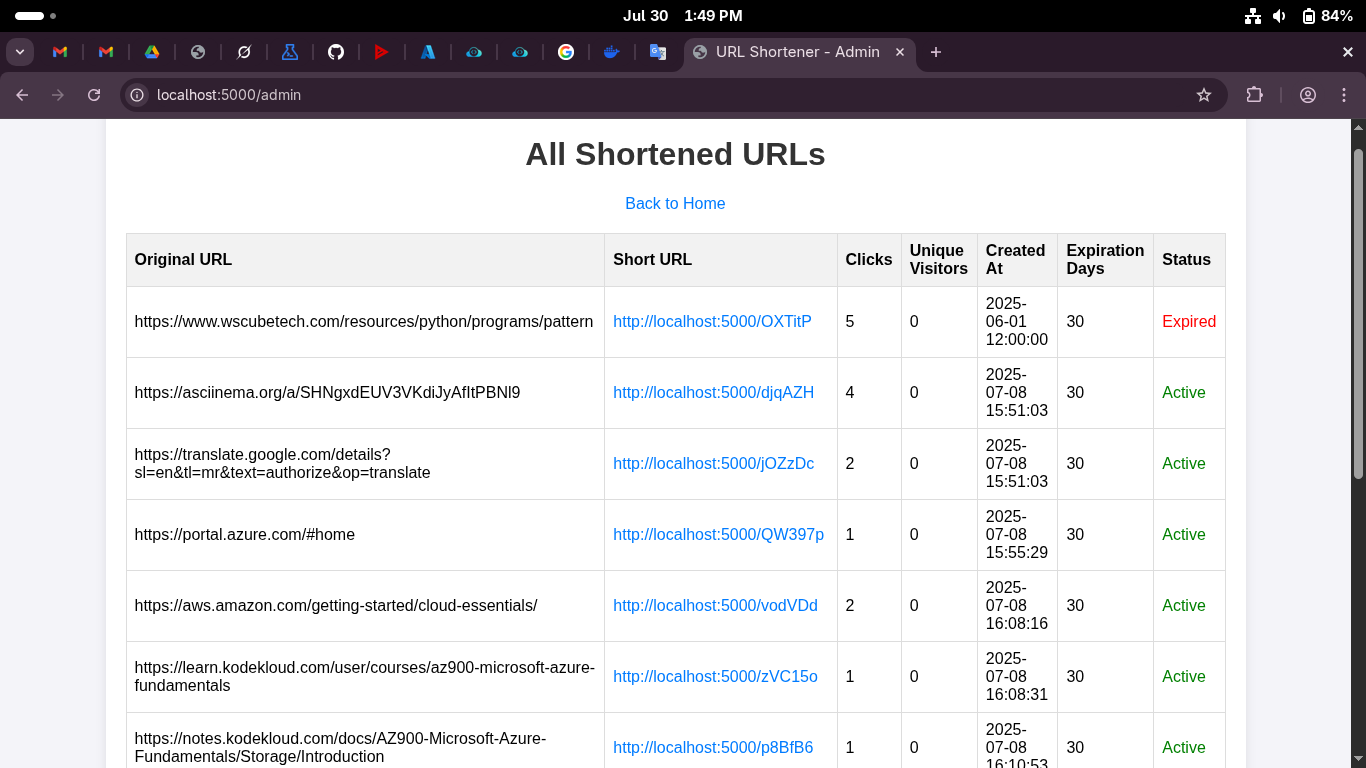
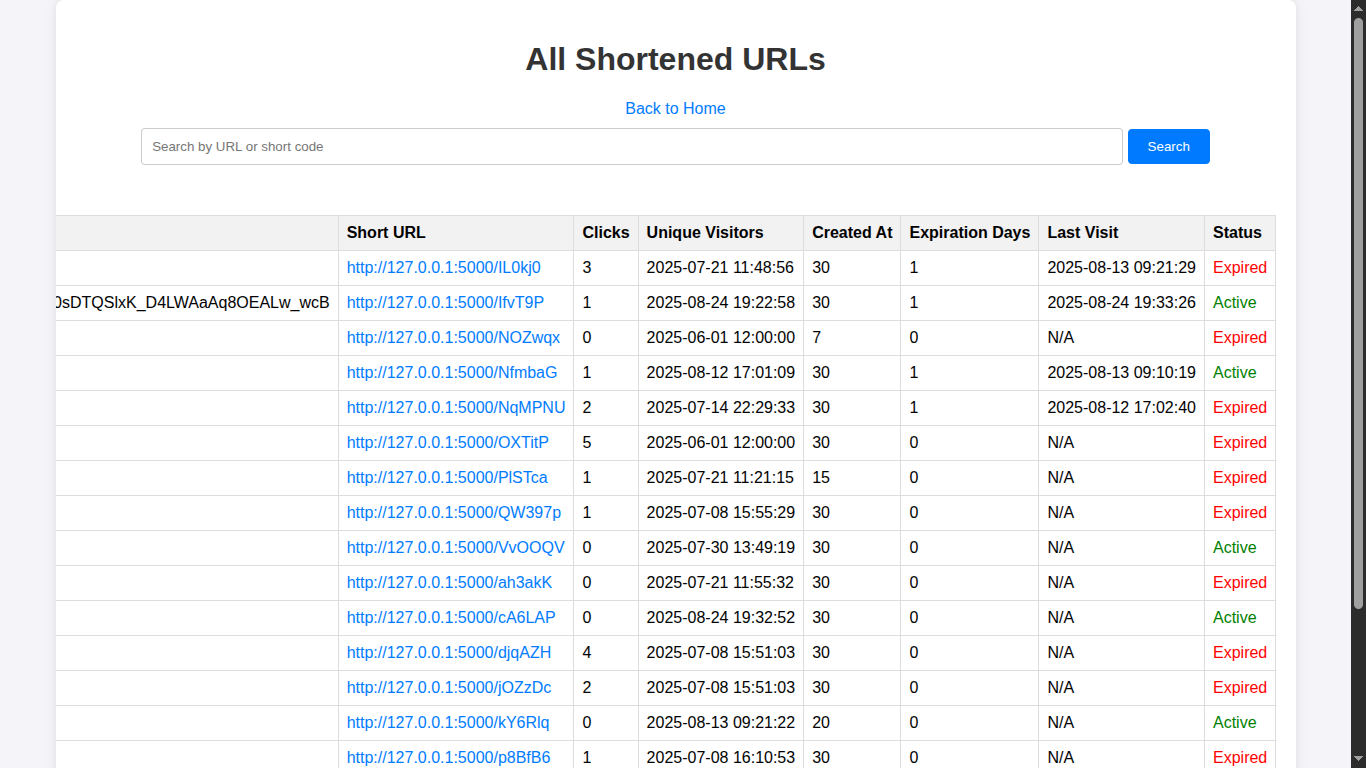
Add search function to admin page

diff --git a/templates/admin.html b/templates/admin.html
@@ -9,25 +9,31 @@
     <div class="container">
         <h1>All Shortened URLs</h1>
         <a href="{{ url_for('index') }}">Back to Home</a>
-        {% if urls %}
-            <table>
-                <tr><th>Original URL</th><th>Short URL</th><th>Clicks</th><th>Unique Visitors</th><th>Created At</th><th>Expiration Days</th><th>Last Visit</th><th>Status</th></tr>
-                {% for original_url, short_code, clicks, unique_visitors, created_at, expiration_days, last_visit_time, status in urls %}
-                    <tr>
-                        <td>{{ original_url }}</td>
-                        <td><a href="{{ url_for('redirect_url', short_code=short_code, _external=True) }}">{{ url_for('redirect_url', short_code=short_code, _external=True) }}</a></td>
-                        <td>{{ clicks }}</td>
-                        <td>{{ unique_visitors }}</td>
-                        <td>{{ created_at }}</td>
-                        <td>{{ expiration_days }}</td>
-                        <td>{{ last_visit_time or 'N/A' }}</td>
-                        <td class="{{ 'expired' if status == 'Expired' else 'active' }}">{{ status }}</td>
-                    </tr>
-                {% endfor %}
-            </table>
-        {% else %}
-            <p>No URLs shortened yet.</p>
-        {% endif %}
+        <form method="GET" action="{{ url_for('admin') }}" class="search-form">
+            <input type="text" name="search" placeholder="Search by URL or short code" value="{{ search }}">
+            <button type="submit">Search</button>
+        </form>
+        <div class="table-wrapper">
+            {% if urls %}
+                <table>
+                    <tr><th>Original URL</th><th>Short URL</th><th>Clicks</th><th>Unique Visitors</th><th>Created At</th><th>Expiration Days</th><th>Last Visit</th><th>Status</th></tr>
+                    {% for original_url, short_code, clicks, unique_visitors, created_at, expiration_days, last_visit_time, status in urls %}
+                        <tr>
+                            <td>{{ original_url }}</td>
+                            <td><a href="{{ url_for('redirect_url', short_code=short_code, _external=True) }}">{{ url_for('redirect_url', short_code=short_code, _external=True) }}</a></td>
+                            <td>{{ clicks }}</td>
+                            <td>{{ unique_visitors }}</td>
+                            <td>{{ created_at }}</td>
+                            <td>{{ expiration_days }}</td>
+                            <td>{{ last_visit_time or 'N/A' }}</td>
+                            <td class="{{ 'expired' if status == 'Expired' else 'active' }}">{{ status }}</td>
+                        </tr>
+                    {% endfor %}
+                </table>
+            {% else %}
+                <p>No URLs shortened yet or no results for search "{{ search }}".</p>
+            {% endif %}
+        </div>
     </div>
 </body>
 </html>

diff --git a/static/style.css b/static/style.css
@@ -14,13 +14,13 @@ body {
     border-radius: 8px;
     box-shadow: 0 0 10px rgba(0,0,0,0.1);
     width: 90%;
-    max-width: 1200px; /* Increased for new column */
+    max-width: 1200px;
     text-align: center;
 }
 h1 {
     color: #333;
 }
-input[type="url"], input[type="number"] {
+input[type="url"], input[type="number"], input[type="text"] {
     width: 80%;
     padding: 10px;
     margin: 10px 0;
@@ -46,10 +46,16 @@ table {
     border-collapse: collapse;
     margin-top: 20px;
 }
+.table-wrapper {
+    overflow-x: auto; /* Adds horizontal scroll if table overflows */
+    margin: 0 -20px; /* Match container padding to extend full width inside */
+    padding: 0 20px; /* Restore padding inside wrapper */
+}
 th, td {
     border: 1px solid #ddd;
     padding: 8px;
     text-align: left;
+    white-space: nowrap; /* Prevents text wrapping in cells */
 }
 th {
     background-color: #f2f2f2;
@@ -66,4 +72,7 @@ a:hover {
 }
 .active {
     color: green;
+}
+.search-form {
+    margin-bottom: 20px;
 }

diff --git a/app.py b/app.py
@@ -111,18 +111,22 @@ def redirect_url(short_code):
 # Admin view to list all URLs
 @app.route('/admin')
 def admin():
+    search = request.args.get('search', '')
     conn = sqlite3.connect('shortener.db')
     c = conn.cursor()
-    c.execute('''SELECT u.original_url, u.short_code, u.clicks, u.created_at, u.expiration_days,
-                        COUNT(v.id) as unique_visitors,
-                        MAX(v.last_visit) as last_visit_time,
-                        CASE WHEN datetime(u.created_at) < datetime('now', '-' || u.expiration_days || ' days') THEN 'Expired' ELSE 'Active' END as status
-                 FROM urls u
-                 LEFT JOIN visitors v ON u.short_code = v.short_code
-                 GROUP BY u.short_code''')
+    query = '''SELECT u.original_url, u.short_code, u.clicks, u.created_at, u.expiration_days,
+                      COUNT(v.id) as unique_visitors,
+                      MAX(v.last_visit) as last_visit_time,
+                      CASE WHEN datetime(u.created_at) < datetime('now', '-' || u.expiration_days || ' days') THEN 'Expired' ELSE 'Active' END as status
+               FROM urls u
+               LEFT JOIN visitors v ON u.short_code = v.short_code
+               WHERE u.original_url LIKE ? OR u.short_code LIKE ?
+               GROUP BY u.short_code'''
+    like_query = f"%{search}%"
+    c.execute(query, (like_query, like_query))
     urls = c.fetchall()
     conn.close()
-    return render_template('admin.html', urls=urls)
+    return render_template('admin.html', urls=urls, search=search)
 
 if __name__ == '__main__':
     init_db()
